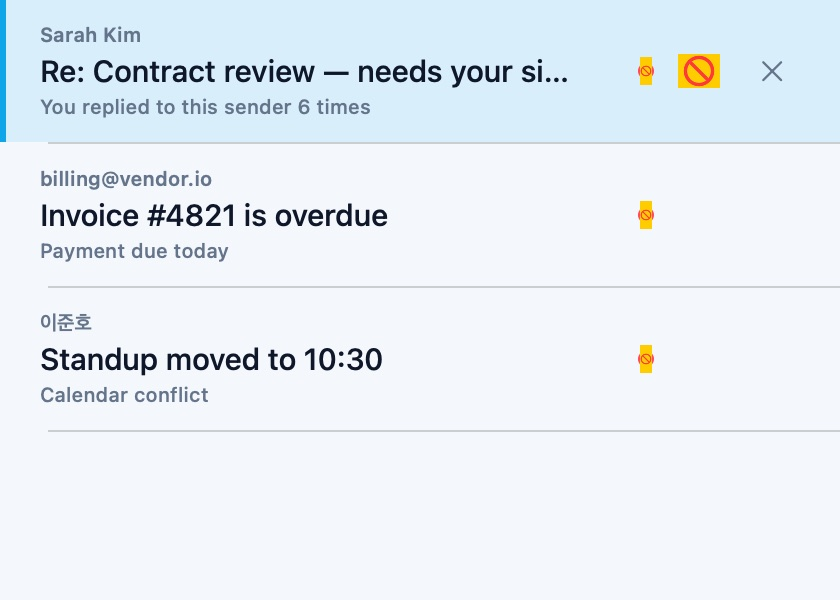
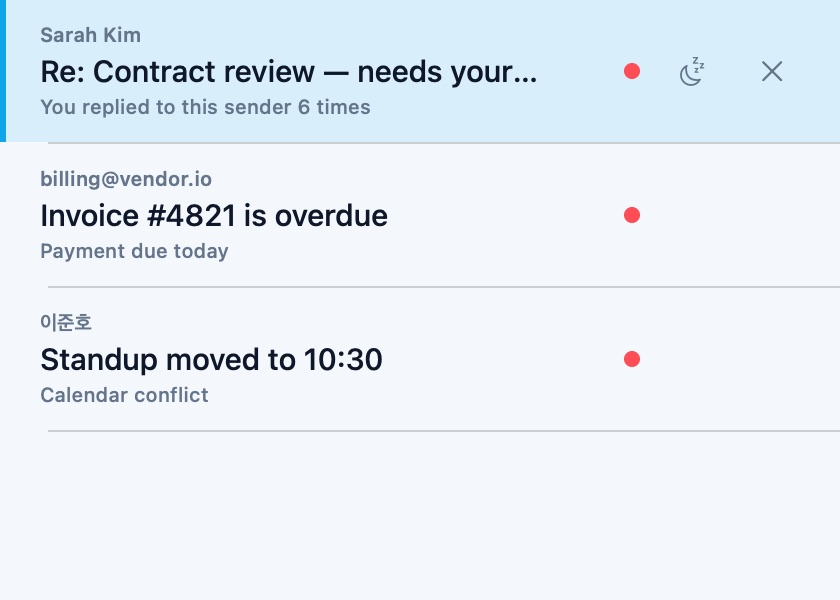
refactor(website): shorten the page and fix what the screenshots showed
The card grid was letting each source image set its own card height, so a
520pt preview in a half-width card became a page of picture with the copy
stranded underneath — one section was taller than the entire hero. Cards
now crop to a fixed window anchored top-left, where the interface is:
a wide strip for the lead card, shallower ones for the rest.

Vertical rhythm tightened by about a quarter throughout — sections,
section heads, the hero, the stage, and the padding inside every card.
The page was breathing so heavily it had stopped reading as one object.
Overall length drops from 6747px to 6499px with more content in it.

Two content fixes the renders exposed:

The lead card was cropping the compact panel, whose fixture leaves the
RECENT PUSH and TODAY columns empty — so the most prominent screenshot on
the page was mostly blank. It now shows the full view, which is the
screen the copy is describing anyway.

Row-level Snooze and tier menus still painted the AppKit "restricted"
placeholder under ImageRenderer; the earlier fix only covered the
reading-pane pair. Three yellow blocks were sitting in the second card.
Both now fall back to plain icons while rendering offscreen.

diff --git a/website/_new.html b/website/_new.html
@@ -52,8 +52,8 @@ a{color:inherit;text-decoration:none}
 @media(max-width:880px){.nav-links{display:none}}
 
 /* ── Hero ─────────────────────────────────────────── */
-.hero{position:relative;overflow:hidden;padding:190px 0 0;text-align:center}
-.hero-sky{position:absolute;top:0;left:0;width:100%;height:1220px;z-index:0}
+.hero{position:relative;overflow:hidden;padding:164px 0 0;text-align:center}
+.hero-sky{position:absolute;top:0;left:0;width:100%;height:1120px;z-index:0}
 .wrap{position:relative;z-index:3;max-width:1180px;margin:0 auto;padding:0 24px}
 
 .eyebrow{display:inline-flex;align-items:center;gap:9px;padding:7px 8px 7px 15px;border-radius:9999px;
@@ -84,7 +84,7 @@ h1 .ser{font-family:'PP Editorial New','Iowan Old Style',Georgia,serif;font-styl
 .btn-2:hover{background:#fff}
 
 /* ── The real app, floating ───────────────────────── */
-.stage{position:relative;z-index:3;margin:72px auto 0;max-width:1160px;padding:0 24px}
+.stage{position:relative;z-index:3;margin:56px auto 0;max-width:1160px;padding:0 24px}
 .shell{position:relative;border-radius:30px;padding:10px;
   background:linear-gradient(180deg,rgba(255,255,255,.72),rgba(255,255,255,.34));
   border:1px solid rgba(255,255,255,.8);
@@ -111,8 +111,8 @@ h1 .ser{font-family:'PP Editorial New','Iowan Old Style',Georgia,serif;font-styl
 @media(max-width:1080px){.chip{display:none}}
 
 /* ── Cards ────────────────────────────────────────── */
-.sec{position:relative;padding:150px 0 40px}
-.sec-head{max-width:1180px;margin:0 auto 54px;padding:0 24px;display:flex;gap:48px;align-items:flex-end;flex-wrap:wrap}
+.sec{position:relative;padding:104px 0 28px}
+.sec-head{max-width:1180px;margin:0 auto 40px;padding:0 24px;display:flex;gap:48px;align-items:flex-end;flex-wrap:wrap}
 .sec-head h2{flex:1 1 420px;margin:0;font-size:clamp(32px,4.2vw,52px);line-height:1.04;letter-spacing:-.035em;font-weight:700}
 .sec-head p{flex:1 1 300px;margin:0;color:var(--ink-2);font-size:16px;max-width:420px}
 .tag{display:inline-block;font-size:10.5px;letter-spacing:.2em;text-transform:uppercase;color:var(--ink-3);
@@ -124,8 +124,11 @@ h1 .ser{font-family:'PP Editorial New','Iowan Old Style',Georgia,serif;font-styl
 .card:hover{transform:translateY(-5px);box-shadow:0 40px 80px -46px rgba(8,42,80,.5)}
 .card-in{border-radius:19px;overflow:hidden;background:#fff;border:1px solid var(--line);height:100%;
   box-shadow:inset 0 1px 1px rgba(255,255,255,.9);display:flex;flex-direction:column}
-.card-shot{background:linear-gradient(180deg,#eef4fa,#fdfefe);overflow:hidden;position:relative}
-.card-shot img{display:block;width:100%;transform:scale(1.02);transition:transform 1.1s var(--ease)}
+.card-shot{background:linear-gradient(180deg,#eef4fa,#fdfefe);overflow:hidden;position:relative;aspect-ratio:21/9}
+.c4 .card-shot{aspect-ratio:4/3}
+.c6 .card-shot{aspect-ratio:16/9}
+.card-shot img{display:block;width:100%;height:100%;object-fit:cover;object-position:left top;
+  transform:scale(1.02);transition:transform 1.1s var(--ease)}
 .card:hover .card-shot img{transform:scale(1.06)}
 .card-txt{padding:20px 22px 24px}
 .card-txt h3{margin:0 0 6px;font-size:17px;font-weight:650;letter-spacing:-.015em}
@@ -137,7 +140,7 @@ h1 .ser{font-family:'PP Editorial New','Iowan Old Style',Georgia,serif;font-styl
 /* ── Shared section furniture ─────────────────────── */
 .wrapl{max-width:1180px;margin:0 auto;padding:0 24px}
 .band{background:#f4f2ec;border-block:1px solid var(--line)}
-.sec.band{padding-block:130px}
+.sec.band{padding-block:96px}
 
 .stmt{max-width:780px}
 .stmt-h{font-size:clamp(30px,4.4vw,54px);line-height:1.06;letter-spacing:-.035em;font-weight:700;margin:0 0 22px}
@@ -153,11 +156,11 @@ h1 .ser{font-family:'PP Editorial New','Iowan Old Style',Georgia,serif;font-styl
 .step>*{margin:0}
 .step .sn{display:block;font-size:11px;letter-spacing:.2em;font-weight:700;color:var(--sky-600);padding:22px 24px 0}
 .step h3{font-size:20px;letter-spacing:-.02em;padding:10px 24px 0}
-.step p{color:var(--ink-3);font-size:14px;padding:8px 24px 26px}
+.step p{color:var(--ink-3);font-size:14px;padding:8px 24px 22px}
 @media(max-width:860px){.steps{grid-template-columns:1fr}}
 
 .stats{max-width:1180px;margin:0 auto;padding:0 24px;display:grid;grid-template-columns:repeat(3,1fr);gap:18px}
-.stat{border-radius:26px;padding:30px 28px;background:#fff;border:1px solid var(--line);
+.stat{border-radius:26px;padding:26px 26px;background:#fff;border:1px solid var(--line);
   box-shadow:0 22px 50px -38px rgba(8,42,80,.45)}
 .stat .sv{font-size:clamp(38px,4.6vw,54px);line-height:1;letter-spacing:-.04em;font-weight:700;font-variant-numeric:tabular-nums}
 .stat .sl{margin-top:10px;font-size:11px;letter-spacing:.16em;text-transform:uppercase;color:var(--ink-3);font-weight:650}
@@ -167,7 +170,7 @@ h1 .ser{font-family:'PP Editorial New','Iowan Old Style',Georgia,serif;font-styl
 .foot a{color:var(--sky-600);font-weight:600}
 
 .os{border-radius:30px;padding:10px;background:rgba(10,14,20,.04);border:1px solid var(--line)}
-.os-in{border-radius:22px;background:#fff;border:1px solid var(--line);padding:46px 44px;
+.os-in{border-radius:22px;background:#fff;border:1px solid var(--line);padding:38px 38px;
   display:grid;grid-template-columns:1.15fr .85fr;gap:52px;align-items:start}
 .os-h{font-size:clamp(26px,3.2vw,40px);line-height:1.08;letter-spacing:-.03em;margin:0 0 16px;font-weight:700}
 .os-p{color:var(--ink-2);font-size:15.5px;margin:0 0 26px;max-width:520px}
@@ -182,7 +185,7 @@ h1 .ser{font-family:'PP Editorial New','Iowan Old Style',Georgia,serif;font-styl
 .prices{max-width:1000px;margin:0 auto;padding:0 24px;display:grid;grid-template-columns:1fr 1fr;gap:18px}
 .price{border-radius:28px;padding:8px;background:rgba(10,14,20,.035);border:1px solid var(--line)}
 .price.feat{background:var(--ink);border-color:var(--ink)}
-.price-in{border-radius:21px;background:#fff;border:1px solid var(--line);padding:32px 30px;height:100%;
+.price-in{border-radius:21px;background:#fff;border:1px solid var(--line);padding:28px 28px;height:100%;
   display:flex;flex-direction:column}
 .chip-s{align-self:flex-start;font-size:10.5px;letter-spacing:.14em;text-transform:uppercase;font-weight:700;
   padding:6px 12px;border-radius:9999px;background:rgba(10,14,20,.06);color:var(--ink-2)}
@@ -198,13 +201,13 @@ h1 .ser{font-family:'PP Editorial New','Iowan Old Style',Georgia,serif;font-styl
 .btn.full{width:100%;justify-content:center;margin-top:auto;padding-inline:26px}
 @media(max-width:820px){.prices{grid-template-columns:1fr}}
 
-.final{padding:150px 0 40px;text-align:center}
+.final{padding:112px 0 28px;text-align:center}
 .final-h{font-size:clamp(34px,5.4vw,68px);line-height:1.02;letter-spacing:-.04em;font-weight:700;margin:0 0 18px}
 .final-h .ser{font-family:'PP Editorial New','Iowan Old Style',Georgia,serif;font-style:italic;font-weight:400;color:var(--sky-600)}
 .final-p{color:var(--ink-2);margin:0 auto 30px;max-width:520px}
 .final .actions{justify-content:center}
 
-.foot-nav{border-top:1px solid var(--line);padding:70px 0 34px;margin-top:110px}
+.foot-nav{border-top:1px solid var(--line);padding:56px 0 28px;margin-top:76px}
 .foot-grid{display:grid;grid-template-columns:1.6fr 1fr 1fr 1fr;gap:40px}
 .foot-brand{font-size:19px;font-weight:700;letter-spacing:-.02em}
 .foot-note{margin:8px 0 0;font-size:13.5px;color:var(--ink-3);max-width:280px}
@@ -324,9 +327,9 @@ h1 .ser{font-family:'PP Editorial New','Iowan Old Style',Georgia,serif;font-styl
   <div class="cards">
     <article class="card c8 rv">
       <div class="card-in">
-        <div class="card-shot"><img src="media/app/expanded.jpg" alt="The compact panel: four tier counts and the day ahead" loading="lazy"></div>
-        <div class="card-txt"><h3>A bar, not an inbox</h3>
-          <p>At rest Klorn is one line at the top of your screen. Four counts, today's meetings, nothing else.</p></div>
+        <div class="card-shot"><img src="media/app/full.jpg" alt="The full view: tier sidebar, the mail list, and Klorn's reasoning beside the message" loading="lazy"></div>
+        <div class="card-txt"><h3>One window, one decision</h3>
+          <p>Tiers on the left, the queue in the middle, and why it matters on the right. At rest this collapses to a single line at the top of your screen.</p></div>
       </div>
     </article>
     <article class="card c4 rv">

diff --git a/apps/desktop-mac/Sources/KlornMac/TopBar.swift b/apps/desktop-mac/Sources/KlornMac/TopBar.swift
@@ -1624,17 +1624,25 @@ struct FullRow: View {
                 // area is the only variant that keeps the tint AND the menu.
                 ZStack {
                     Circle().fill(Theme.tint(item.tier)).frame(width: 8, height: 8)
-                    TierMenu(item: item, onSetTier: actions.onSetTier) {
-                        Color.clear.iconTarget()
+                    if !Theme.isRenderingOffscreen {
+                        TierMenu(item: item, onSetTier: actions.onSetTier) {
+                            Color.clear.iconTarget()
+                        }
+                        .menuStyle(.borderlessButton).menuIndicator(.hidden).fixedSize()
                     }
-                    .menuStyle(.borderlessButton).menuIndicator(.hidden).fixedSize()
                 }
                 .help(L("mail.changeTier"))
                 .accessibilityLabel(L("mail.changeTier.a11y", sender, item.tier.label))
-                SnoozeMenu(item: item, onSnooze: actions.onSnooze) {
-                    Image(systemName: "moon.zzz").iconTarget()
+                Group {
+                    if Theme.isRenderingOffscreen {
+                        Image(systemName: "moon.zzz").iconTarget()
+                    } else {
+                        SnoozeMenu(item: item, onSnooze: actions.onSnooze) {
+                            Image(systemName: "moon.zzz").iconTarget()
+                        }
+                        .menuStyle(.borderlessButton).menuIndicator(.hidden).fixedSize()
+                    }
                 }
-                .menuStyle(.borderlessButton).menuIndicator(.hidden).fixedSize()
                 .foregroundStyle(Theme.textDim).help(L("mail.snooze"))
                 .accessibilityLabel(L("mail.snooze.a11y", sender))
                 .opacity(hovering || selected || focused ? 1 : 0)
